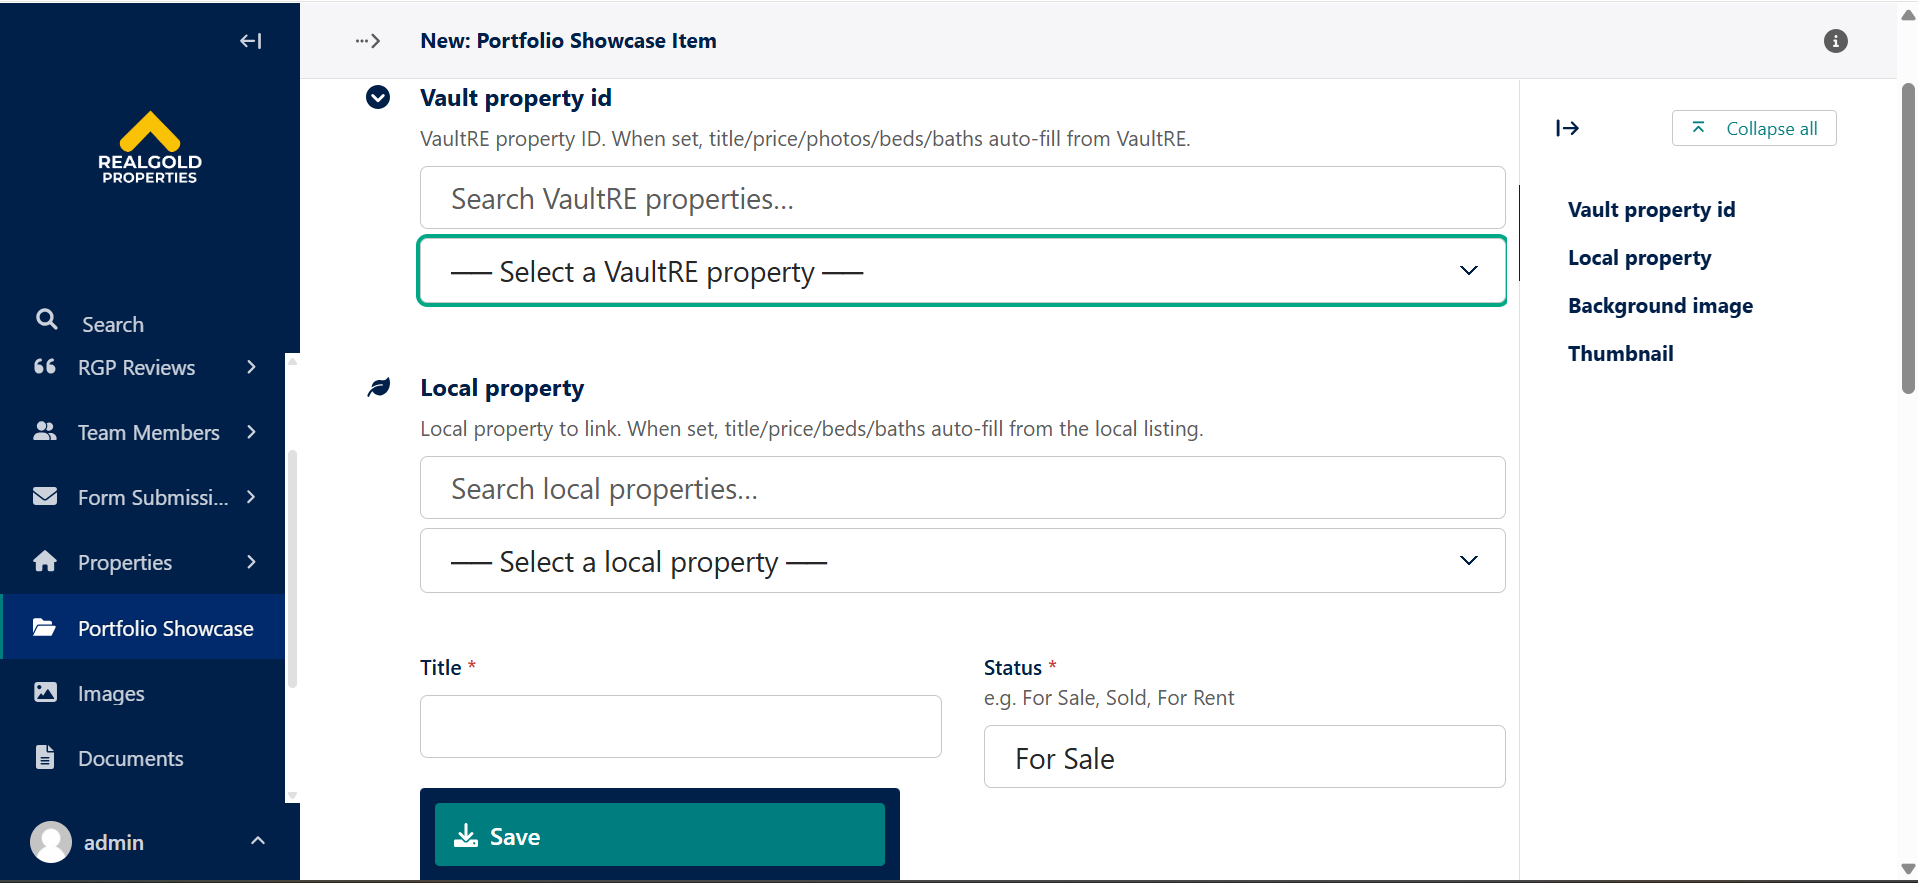
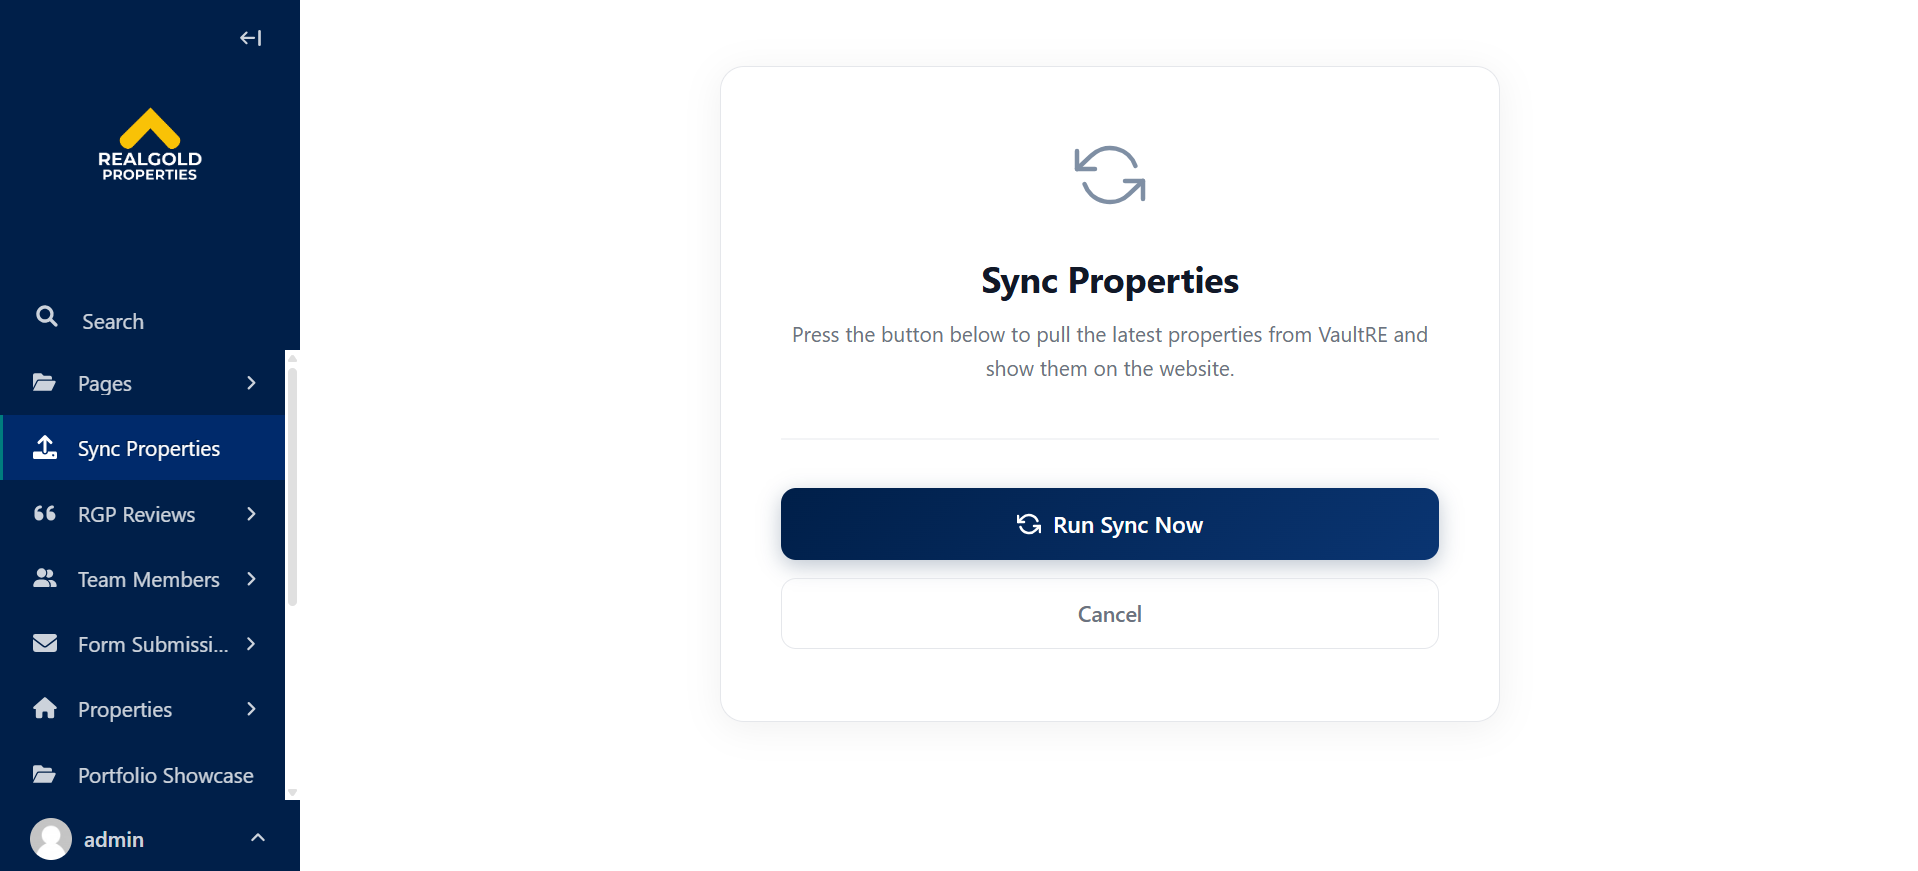
fix: widen legal pages on large screens and scale fonts up
Replaced fixed 900px max-width with clamp(900px, 70vw, 1100px) on both
hero and content inner containers, and added a 1280px+ media query to
bump h2 (13→14px) and body text (15→16px) for better legibility at
large viewport sizes.

diff --git a/front/src/pages/LegalPage.css b/front/src/pages/LegalPage.css
@@ -23,7 +23,7 @@
 }
 
 .legal-hero__inner {
-  max-width: 56.25rem;
+  max-width: clamp(56.25rem, 70vw, 68.75rem);
   margin: 0 auto;
   position: relative;
   z-index: 1;
@@ -74,7 +74,7 @@
 }
 
 .legal-content__inner {
-  max-width: 900px;
+  max-width: clamp(56.25rem, 70vw, 68.75rem);
   margin: 0 auto;
 }
 
@@ -209,6 +209,21 @@
 }
 
 /* ---- Responsive ---- */
+@media (min-width: 1280px) {
+  .legal-content {
+    padding: 96px 60px 144px;
+  }
+
+  .legal-section h2 {
+    font-size: 14px;
+  }
+
+  .legal-section p,
+  .legal-section ul li {
+    font-size: 16px;
+  }
+}
+
 @media (max-width: 768px) {
   .legal-hero {
     padding: 7.5rem 1.5rem 3.5rem;